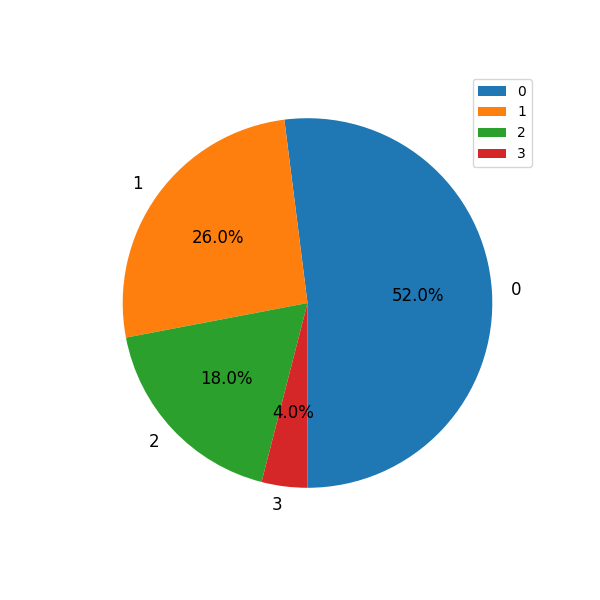
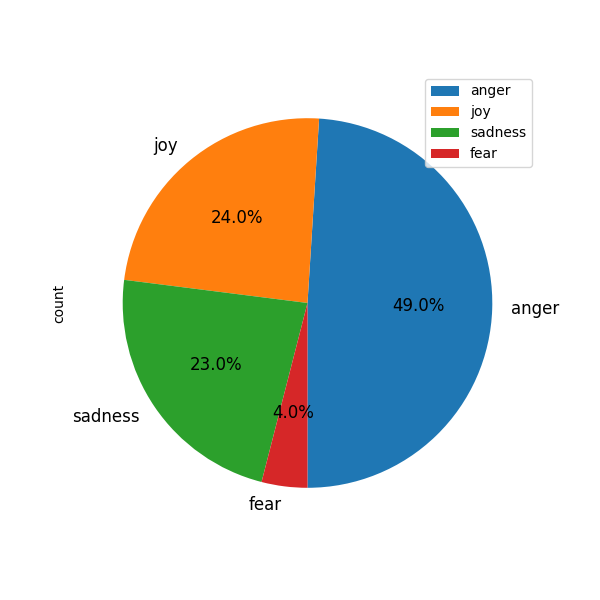
add readme file, revise index page.

diff --git a/templates/index.html b/templates/index.html
@@ -11,7 +11,7 @@
         <input type="text" placeholder="keyword" autofocus name="keyword">
         <button type="submit" class="btn btn-dark">Search</button>
     </form>
-    <p class="text-muted">You can get Today's Top Headlines Analysis Result by searching without a keyword.</p>
+    <p class="text-muted">You can get Today's Top Headlines Analysis Result by clicking 'search' without a keyword.</p>
 </div>
 
 {% if request.method == "POST" %}

diff --git a/src/analysis.py b/src/analysis.py
@@ -43,7 +43,9 @@ def generateGraph(sentiments_counts):
     # visualize the sentiments
     fig = plt.figure(figsize=(6,6), dpi=100)
     ax = plt.subplot(111)
-    df.plot.pie(ax=ax, autopct='%1.1f%%', startangle=270, fontsize=12, label="", y='count')
+    labels = df['sentiment'].values.tolist()
+    print(labels)
+    df.plot.pie(ax=ax, autopct='%1.1f%%', startangle=270, fontsize=12, labels=labels, y="count")
     graph_path = 'static/img/graph.png'
     plt.savefig(graph_path)
     plt.close()

diff --git a/readme.md b/readme.md
@@ -1,0 +1,27 @@
+# Get Started
+
+## To run this app in VS Code
+(Reference: [Flask Tutorial in Visual Studio Code](https://code.visualstudio.com/docs/python/tutorial-flask)).
+
+1. Prerequisites
+   - python3 and python extension installed.
+
+2. Create project environment for the Flask
+    - use the following command to create and activate virtual environment named `.venv`
+    ```
+    # Linux
+    sudo apt-get install python3-venv    # If needed
+    python3 -m venv .venv
+    source .venv/bin/activate
+
+    # macOS
+    python3 -m venv .venv
+        source .venv/bin/activate
+
+    # Windows
+    py -3 -m venv .venv
+    .venv\scripts\activate
+    ```
+3. Install dependencies `pip3 install -r requirements.txt`.
+   
+4. `flask run` to run the app on your local server.
